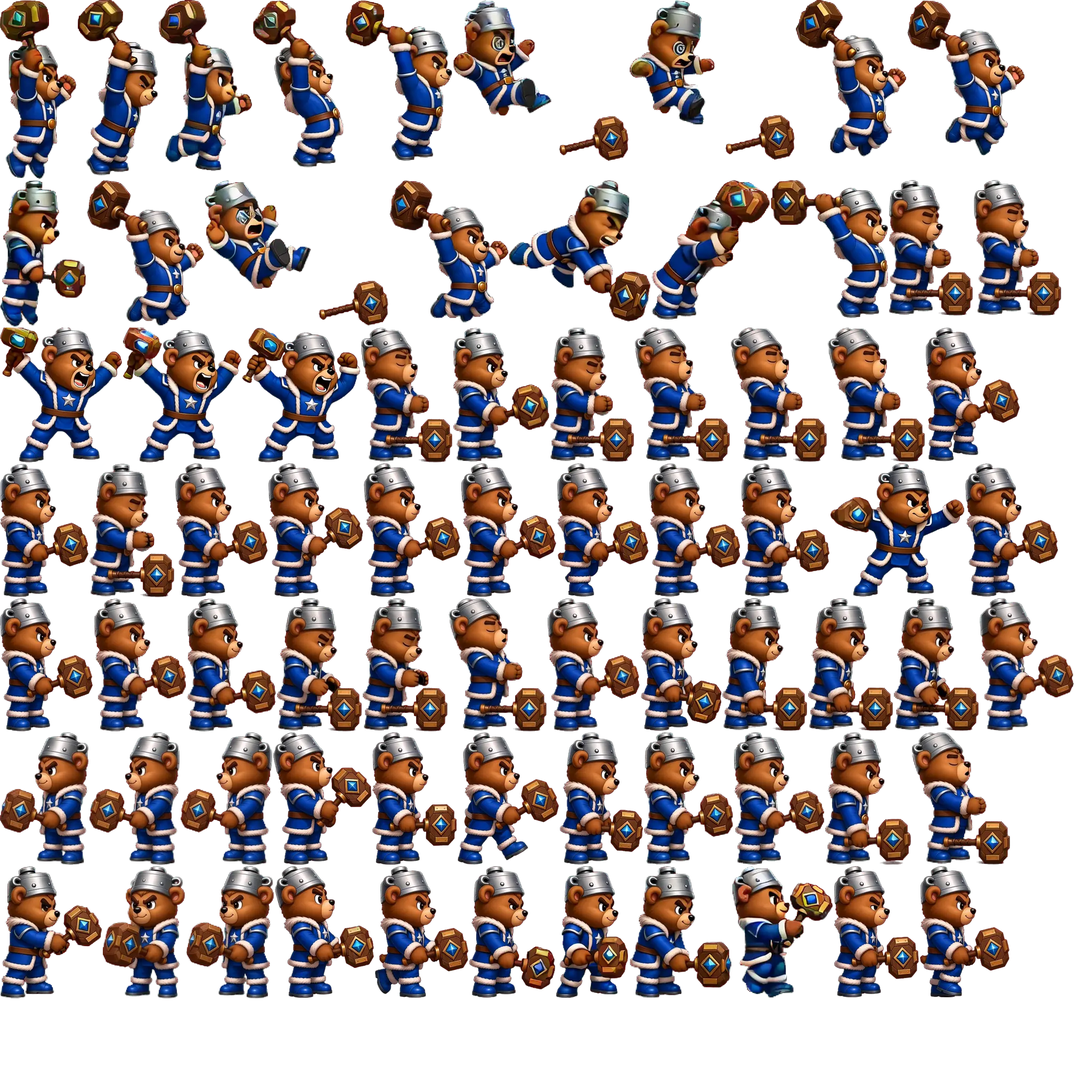
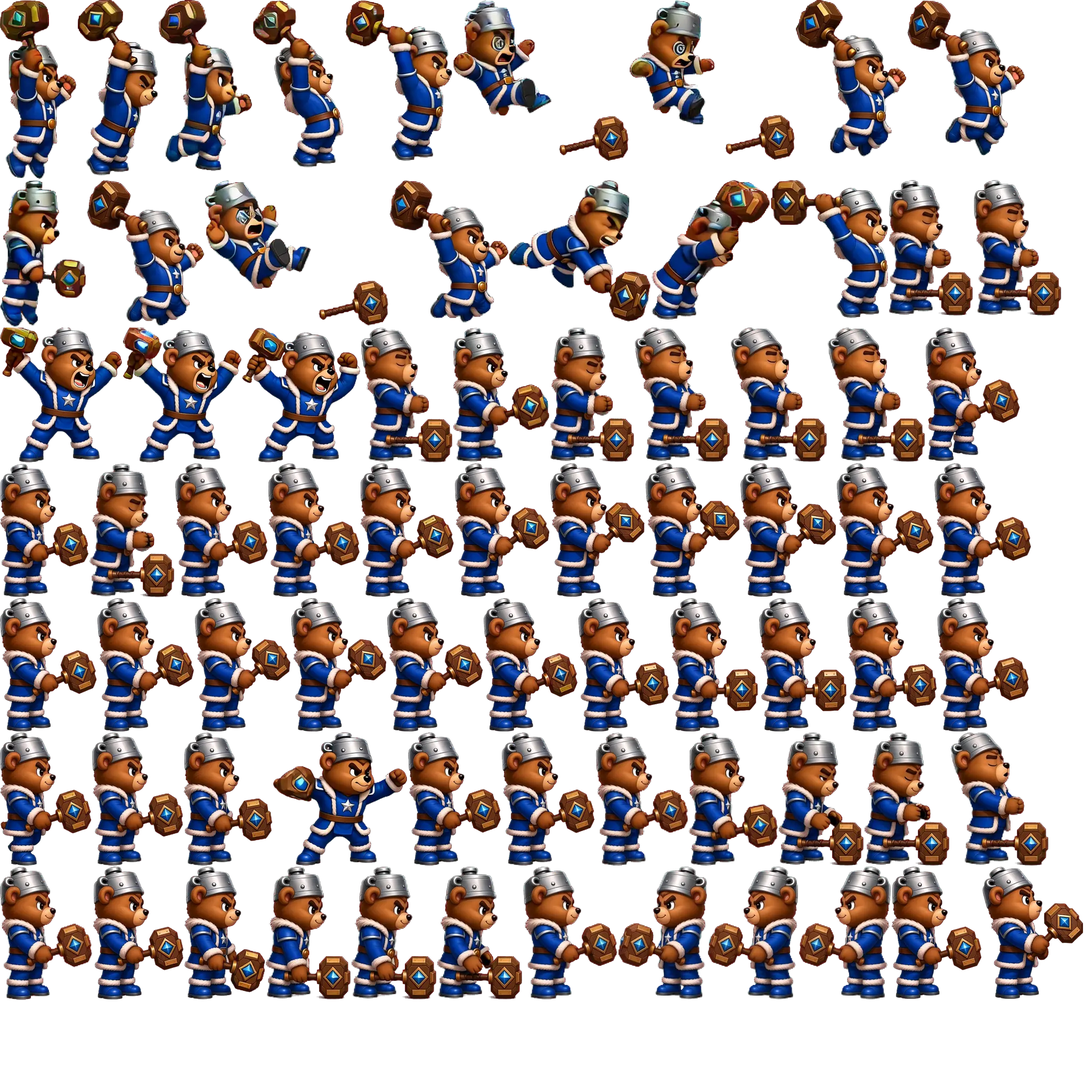
v0.9.7: 뭉치 대기 동작 부드럽게 — 8프레임 2.3fps → 43프레임 12fps(5..89 매 2프레임, 이음매 없는 루프), 프레임 위치 소수점 유지

diff --git a/js/version.js b/js/version.js
@@ -1,4 +1,4 @@
 // 빌드 버전 (한 곳에서만 관리). 푸시할 때마다 올린다. sw.js 캐시 이름도 이 값을 쓰므로
 // 예전 빌드가 캐시된 폰은 예전 번호가 보인다. 타이틀/로비 화면 오른쪽 아래에 표시.
-self.LR_VERSION = '0.9.6';
-self.LR_BUILD = '2026-10-17';
+self.LR_VERSION = '0.9.7';
+self.LR_BUILD = '2026-10-18';

diff --git a/tools/mungchi_frames/build.py b/tools/mungchi_frames/build.py
@@ -7,7 +7,8 @@ TH=int(os.environ.get('TH','250'))
 def R(a,b,s=1): return list(range(a,b+1,s))
 # ref: 스케일 기준 클립 (raw_ultc 1-15 = raw_ult 10..52, 16-35 = raw_ult2)
 A={
- 'idle':  dict(d='raw_idle',f=[5,15,26,36,46,57,67,78],fps=8/3.46,loop=True),
+ # idle: 5..89 매 2프레임(12fps, 3.5초 주기). 89 다음 = 91≈5 (90↔5 차이 2.3 = 인접 프레임 수준) → 이음매 없이 루프
+ 'idle':  dict(d='raw_idle',f=R(5,89,2),fps=12,loop=True),
  'walk':  dict(d='raw',f=R(13,35,2),fps=12,loop=True),
  'attack':dict(d='raw_atk2',f=[4,10,14,17,20,23,26,29,33,38,43,48,54],fps=16,loop=False,key=6),
  # skill1: 0..7 공중(게임 점프 속도 vy로 프레임 선택), 8 = 내려찍기 착지(doSlam) 순간, 이후 회복
@@ -66,7 +67,7 @@ for act,L in placed.items():
     for j,(im,x,y,i,_) in enumerate(L):
         # sub-pixel placement: paste at integer pos (error < .5px at out scale)
         fn=f'{act}_{j:02d}.png'; im.save(f'{W}/out/frames/{fn}')
-        fr.append(dict(file=fn,src=i,off=[int(round(x-x0)),int(round(y-y0))],size=list(im.size)))
+        fr.append(dict(file=fn,src=i,off=[round(x-x0,2),round(y-y0,2)],size=list(im.size)))   # 소수점 위치 유지 (반올림 떨림 방지)
         hd=o.get('hand')
         if hd and j>=hd['start']: fr[-1]['hand']=hd['xy']
     m=dict(fps=round(o['fps'],3),loop=o['loop'],frames=fr)

diff --git a/tools/mungchi_frames/sheet.py b/tools/mungchi_frames/sheet.py
@@ -14,7 +14,7 @@ for r,a in enumerate(acts):
     d.text((6,y0+th//2-24),f"{a}\n{len(m['frames'])}f @ {m['fps']}fps\n{'loop' if m['loop'] else 'one-shot'}{'' if m.get('key') is None else ' key='+str(m['key'])}",fill=(255,255,200),font=FT)
     for c,f in enumerate(m['frames']):
         t=Image.new('RGBA',(bw,bh),(96,116,136,255) if c!=m.get('key') else (140,110,90,255))
-        im=Image.open(W+'/out/frames/'+f['file']);t.alpha_composite(im,tuple(f['off']))
+        im=Image.open(W+'/out/frames/'+f['file']);t.alpha_composite(im,tuple(int(round(v)) for v in f['off']))
         dd=ImageDraw.Draw(t);dd.line([(ax-12,ay),(ax+12,ay)],fill='red',width=2);dd.line([(ax,ay-12),(ax,ay+12)],fill='red',width=2)
         if f.get('hand'): hx,hy=ax+f['hand'][0],ay+f['hand'][1];dd.ellipse([hx-5,hy-5,hx+5,hy+5],outline='cyan',width=2)
         t=t.convert('RGB').resize((tw,th),Image.LANCZOS);img.paste(t,(LW+c*tw,y0+14))
